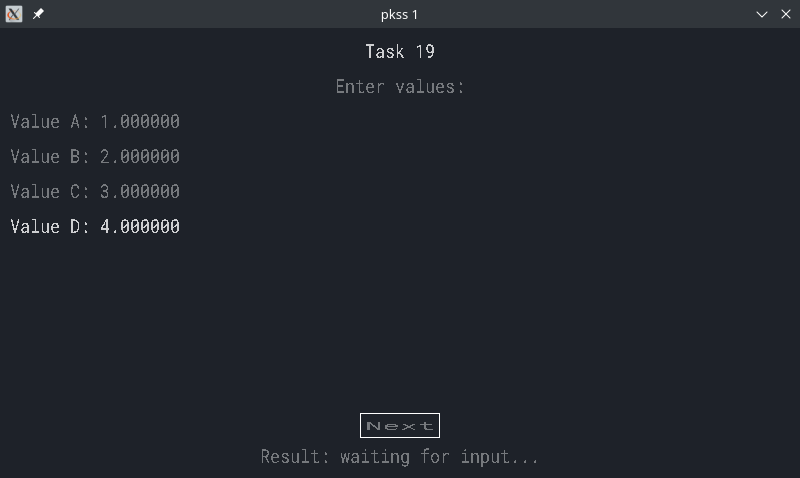
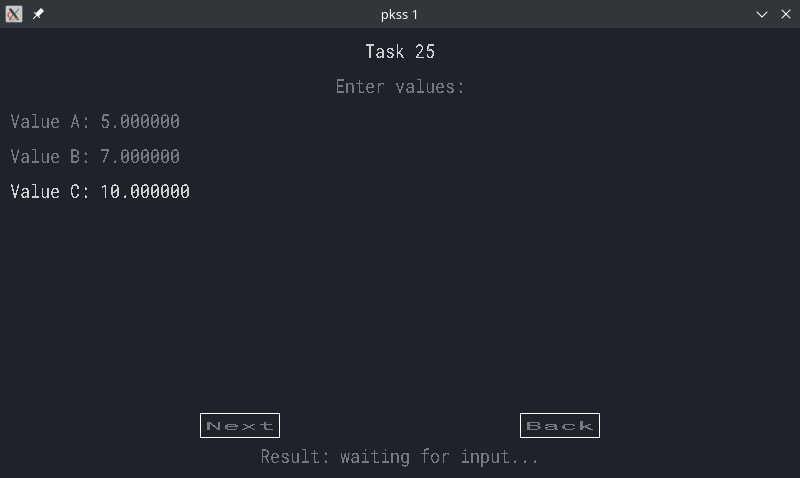
pr1

diff --git a/p1/main.c b/p1/main.c
@@ -189,7 +189,15 @@ static void drawMainPage(void) {
         drawCenteredXText(gHeight - 10 - TEXT_HEIGHT, "Unknown task number", colorRed());
 }
 
-static void drawFieldsAndButton(int fields, const char* title, int* chosenField, float* values, char (*labelSupplier)(int)) { // TODO: add 'back' button which returns to main page
+static bool drawButtonAndCheckHover(const char* name, SDL_Rect rect) {
+    const bool withinButton = gMouseHoverX >= rect.x && gMouseHoverX <= rect.x + rect.w
+        && gMouseHoverY >= rect.y && gMouseHoverY <= rect.y + rect.h;
+
+    drawButton(rect, name, withinButton ? colorWhite() : colorGray());
+    return withinButton;
+}
+
+static void drawTemplate(int fields, const char* title, int* chosenField, float* values, char (*labelSupplier)(int)) { // TODO: add 'back' button which returns to main page
     drawCenteredXText(10, title, colorWhite());
     drawCenteredXText(10 * 2 + TEXT_HEIGHT, "Enter values:", colorGray());
 
@@ -204,24 +212,37 @@ static void drawFieldsAndButton(int fields, const char* title, int* chosenField,
     }
 
     const int buttonWidth = 80;
-    SDL_Rect buttonRect = {gWidth / 2 - buttonWidth / 2, gHeight - 10 * 3 - BUTTON_SIZE, buttonWidth, TEXT_HEIGHT};
+    const bool withinButtonNext = drawButtonAndCheckHover("Next", (SDL_Rect) {
+        gWidth / 4,
+        gHeight - 10 * 3 - BUTTON_SIZE,
+        buttonWidth,
+        TEXT_HEIGHT
+    });
 
-    const bool withinButton = gMouseHoverX >= buttonRect.x && gMouseHoverX <= buttonRect.x + buttonRect.w
-        && gMouseHoverY >= buttonRect.y && gMouseHoverY <= buttonRect.y + buttonRect.h;
+    const bool withinButtonBack = drawButtonAndCheckHover("Back", (SDL_Rect) {
+        gWidth - gWidth / 4 - buttonWidth,
+        gHeight - 10 * 3 - BUTTON_SIZE,
+        buttonWidth,
+        TEXT_HEIGHT
+    });
 
-    drawButton(buttonRect, "Next", withinButton ? colorWhite() : colorGray());
-
-    if (gMouseClicked && withinButton) {
+    if (gMouseClicked && withinButtonNext) {
         *chosenField < fields ? (*chosenField)++ : (*chosenField = 0);
         clearBuffer();
         gMouseClicked = false;
+    }
+
+    if (gMouseClicked && withinButtonBack) {
+        clearBuffer();
+        gMouseClicked = false;
+        gPage = PAGE_MAIN;
     }
 }
 
 static char defaultLabelSupplier(int i) { return (char) ('A' + i); }
 
 static void drawT19Page(void) {
-    drawFieldsAndButton(4, "Task 19", &t19Field, t19Values, &defaultLabelSupplier);
+    drawTemplate(4, "Task 19", &t19Field, t19Values, &defaultLabelSupplier);
     const int resultTextSize = 1 << 5;
     char* resultText = SDL_calloc(resultTextSize, 1);
 
@@ -236,7 +257,7 @@ static void drawT19Page(void) {
 }
 
 static void drawT22Page(void) {
-    drawFieldsAndButton(4, "Task 22", &t22Field, t22Values, &defaultLabelSupplier);
+    drawTemplate(4, "Task 22", &t22Field, t22Values, &defaultLabelSupplier);
     const int resultTextSize = 255;
     char* resultText = SDL_calloc(resultTextSize, 1);
 
@@ -279,21 +300,21 @@ static void drawSimpleFloatOutput(bool showResult, float result) {
 }
 
 static void drawT25Page(void) {
-    drawFieldsAndButton(3, "Task 25", &t25Field, t25Values, &defaultLabelSupplier);
+    drawTemplate(3, "Task 25", &t25Field, t25Values, &defaultLabelSupplier);
     drawSimpleFloatOutput(t25Field == 3, t25(t25Values[0], t25Values[1], t25Values[2]));
 }
 
 static char t28LabelSupplier(int i) { return (char) ('X' + i); }
 
 static void drawT28Page(void) {
-    drawFieldsAndButton(2, "Task 28", &t28Field, t28Values, &t28LabelSupplier);
+    drawTemplate(2, "Task 28", &t28Field, t28Values, &t28LabelSupplier);
     drawSimpleFloatOutput(t28Field == 2, t28(t28Values[0], t28Values[1]));
 }
 
 static char t3LabelSupplier(int i) { return (char) (i < 3 ? ('A' + i) : ('X' + i - 3)); }
 
 static void drawT3Page(void) {
-    drawFieldsAndButton(5, "Task 3", &t3Field, t3Values, &t3LabelSupplier);
+    drawTemplate(5, "Task 3", &t3Field, t3Values, &t3LabelSupplier);
     const bool showResult = t3Field == 5;
 
     const char* resultText = showResult
